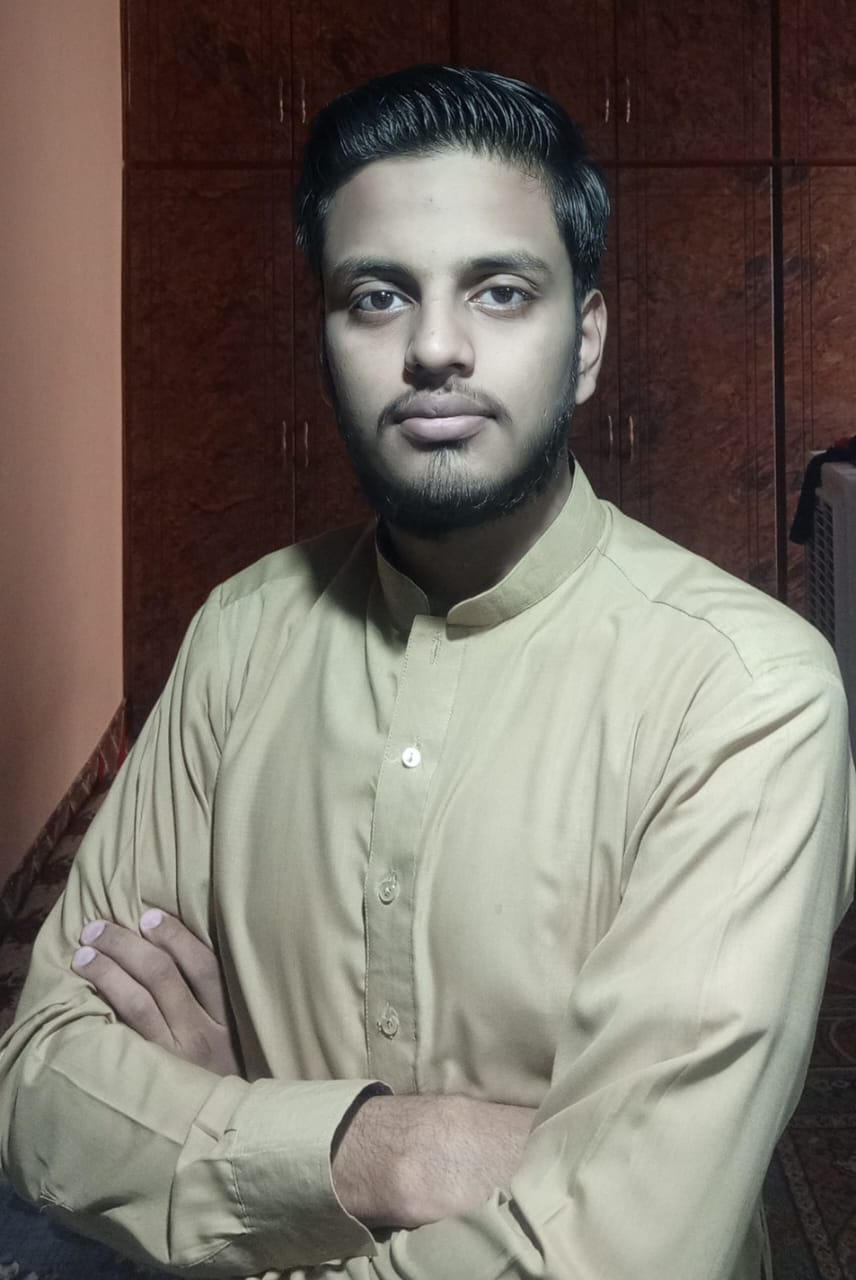
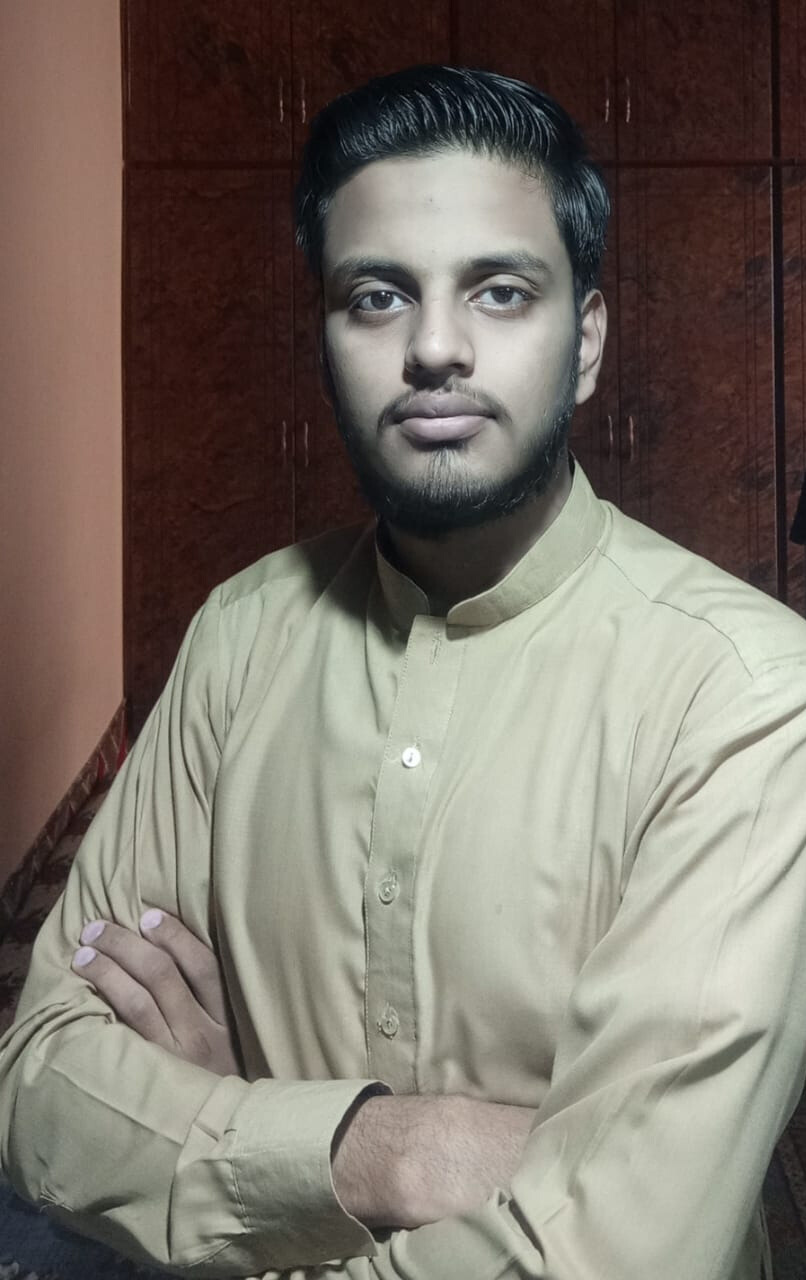
picture style updated, hover and click added

diff --git a/src/components/Header.module.css b/src/components/Header.module.css
@@ -1,10 +1,140 @@
-.heading {
-  width: 100vw;
+/* .profileImage {
+  width: 150px;
+  height: 150px;
+  object-fit: contain;
+  transition: transform 0.4s ease-in-out;
+  z-index: 1;
 }
 
-/* Header.module.css */
+.imageContainer {
+  overflow: visible; 
+  display: inline-block;
+  position: relative;
+}
+
+.profileImage:hover {
+  transform: scale(2);
+  z-index: 10;
+
+
+  transform: scale(1.7);
+  box-shadow: 0 8px 16px rgba(0, 0, 0, 0.2);
+
+
+
+} */
+.imageContainer {
+  position: relative;
+  display: inline-block;
+}
+
 .profileImage {
   width: 150px;
   height: 150px;
   object-fit: contain;
+  border-radius: 50%;
+  cursor: pointer;
+  transition: transform 0.3s ease-in-out, box-shadow 0.3s ease-in-out;
+}
+
+/* Only apply when class is present */
+.hoverEffect:hover {
+  transform: scale(1.5);
+  box-shadow: 0 12px 24px rgba(0, 0, 0, 0.3);
+}
+
+/* Fullscreen overlay */
+.overlay {
+  position: fixed;
+  top: 0;
+  left: 0;
+  width: 100vw;
+  height: 100vh;
+  background: rgba(0, 0, 0, 0.7);
+  z-index: 9999;
+  display: flex;
+  justify-content: center;
+  align-items: center;
+}
+
+/* Zoomed image style */
+.zoomed {
+  transform: scale(5);
+  position: fixed;
+  top: 50%;
+  left: 50%;
+  transform: translate(-50%, -50%) scale(5);
+  box-shadow: 0 16px 32px rgba(0, 0, 0, 0.5);
+  transition: transform 0.3s ease-in-out;
+  z-index: 10000;
+}
+
+/* Close button */
+.closeButton {
+  position: fixed;
+  top: 30px;
+  right: 30px;
+  font-size: 36px;
+  background: none;
+  color: white;
+  border: none;
+  cursor: pointer;
+  z-index: 10001;
+}
+/* Close button styling */
+.closeButton {
+  position: fixed;
+  top: 20px;
+  right: 20px;
+  width: 48px;
+  height: 48px;
+  font-size: 28px;
+  font-weight: bold;
+  background-color: rgba(255, 255, 255, 0.1);
+  color: white;
+  border: 2px solid white;
+  border-radius: 50%;
+  cursor: pointer;
+  z-index: 10001;
+  transition: background-color 0.3s ease, transform 0.2s ease;
+}
+
+.closeButton:hover {
+  background-color: rgba(255, 255, 255, 0.3);
+  transform: scale(1.1);
+}
+
+/* Zoomed image style (already present) */
+.zoomed {
+  transform: translate(-50%, -50%) scale(5);
+  position: fixed;
+  top: 50%;
+  left: 50%;
+  box-shadow: 0 16px 32px rgba(0, 0, 0, 0.5);
+  transition: transform 0.3s ease-in-out;
+  z-index: 10000;
+  border-radius: 50%;
+  width: 150px;
+  height: 150px;
+  object-fit: contain;
+}
+
+/* Responsive handling */
+@media (max-width: 600px) {
+  .zoomed {
+    transform: translate(-50%, -50%) scale(5.2); /* Slightly smaller on small screens */
+  }
+
+  .closeButton {
+    width: 40px;
+    height: 40px;
+    font-size: 24px;
+    top: 15px;
+    right: 15px;
+  }
+
+  .profileImage {
+    width: 120px;
+    height: 120px;
+  }
 }

diff --git a/src/components/Header.jsx b/src/components/Header.jsx
@@ -1,20 +1,70 @@
-import React from 'react';
+// import React from 'react';
+// import 'bootstrap/dist/css/bootstrap.min.css';
+// import styles from "./Header.module.css";
+// import pic from './picccc.jpg'
+
+// function Header() {
+//   return (
+//     <header className={`bg-dark text-white text-center py-4 ${styles.header}`}>
+//       <div className="d-flex flex-column align-items-center">
+//         <img
+//           src={pic}
+//           alt="Kashif Nadeem Kayani"
+//           className={`rounded-circle ${styles.profileImage}`}
+//         />
+//         <h1 className="mt-3">Kashif Nadeem Kayani</h1>
+//         <p className="mt-2">Driven to innovate and eager to make an impact.</p>
+//       </div>
+//     </header>
+//   );
+// }
+
+// export default Header;
+
+
+
+import React, { useState, useEffect } from 'react';
 import 'bootstrap/dist/css/bootstrap.min.css';
 import styles from "./Header.module.css";
-import pic from './picccc.jpg'
+import pic from './picccc.jpg';
 
 function Header() {
+  const [isZoomed, setIsZoomed] = useState(false);
+
+  // Lock scroll when image is zoomed
+  useEffect(() => {
+    document.body.style.overflow = isZoomed ? 'hidden' : 'auto';
+    document.body.style.touchAction = isZoomed ? 'none' : 'auto';
+  }, [isZoomed]);
+
   return (
     <header className={`bg-dark text-white text-center py-4 ${styles.header}`}>
       <div className="d-flex flex-column align-items-center">
-        <img
-          src={pic}
-          alt="Kashif Nadeem Kayani"
-          className={`rounded-circle ${styles.profileImage}`}
-        />
+        <div className={styles.imageContainer}>
+          <img
+            src={pic}
+            alt="Kashif Nadeem Kayani"
+            onClick={() => setIsZoomed(true)}
+            className={`rounded-circle ${styles.profileImage} ${!isZoomed ? styles.hoverEffect : ''}`}
+          />
+        </div>
         <h1 className="mt-3">Kashif Nadeem Kayani</h1>
         <p className="mt-2">Driven to innovate and eager to make an impact.</p>
       </div>
+
+     {isZoomed && (
+  <div className={styles.overlay}>
+    <div className={styles.zoomWrapper}>
+      <button className={styles.closeButton} onClick={() => setIsZoomed(false)}>×</button>
+      <img
+        src={pic}
+        alt="Zoomed"
+        className={`rounded-circle ${styles.profileImage} ${styles.zoomed}`}
+      />
+    </div>
+  </div>
+)}
+
     </header>
   );
 }
